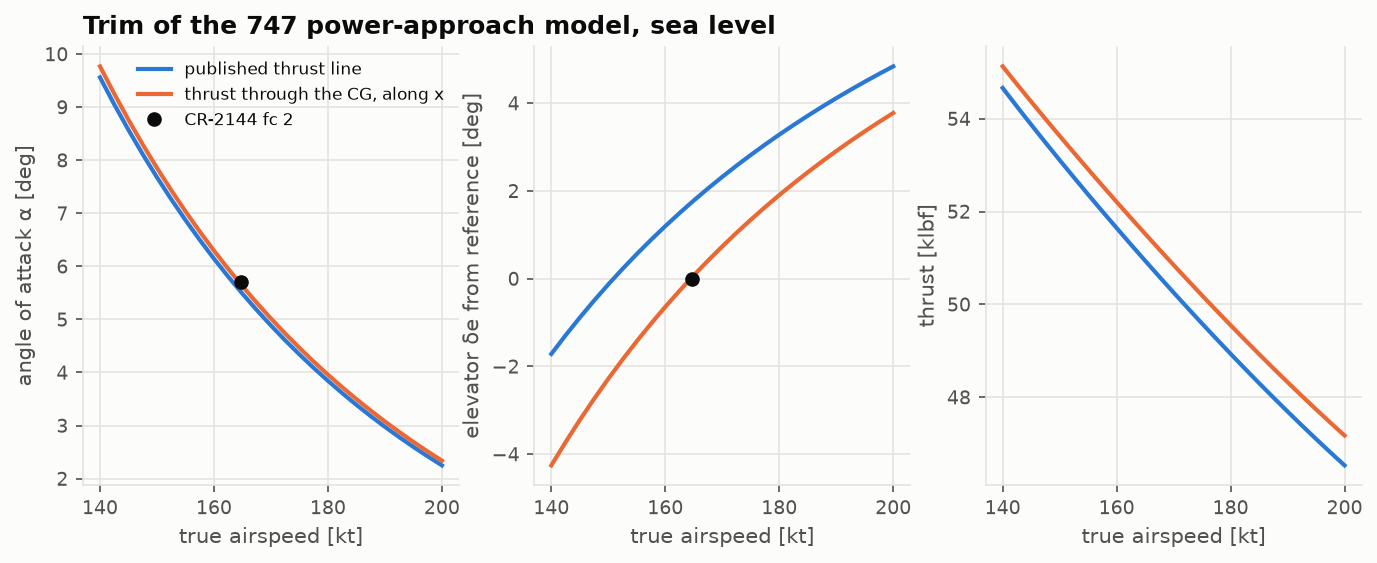
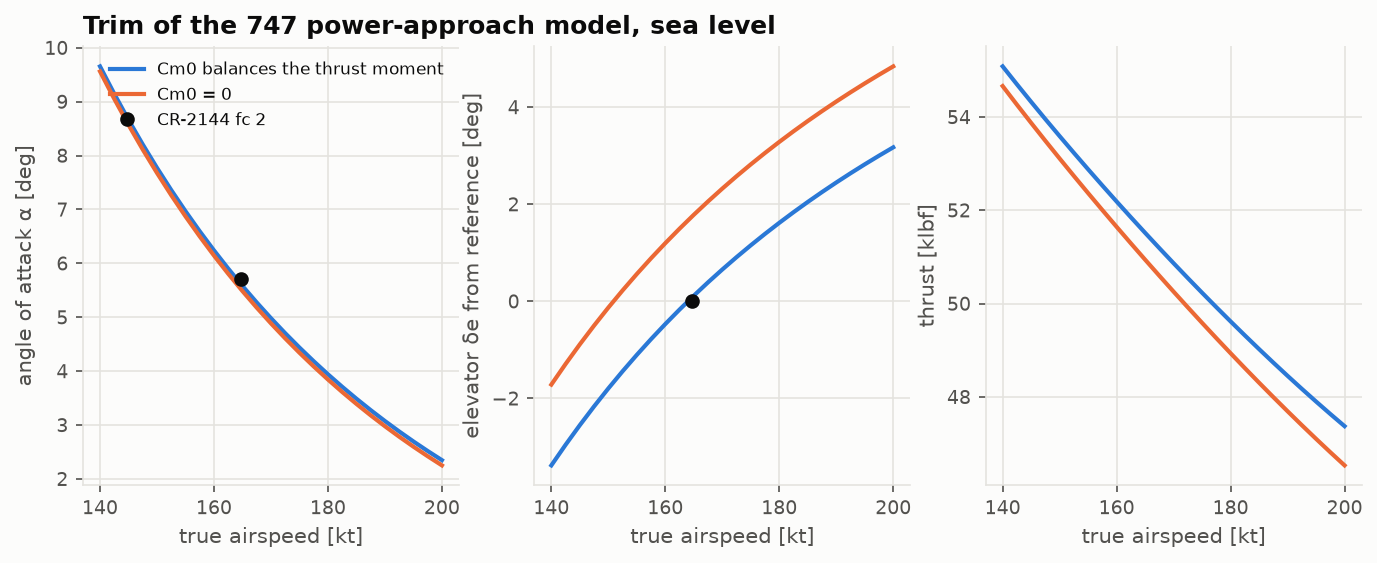
Correct Lessons 2 and 3: the 747 data is trimmed with the thrust moment
The report's M_u* and M_w are reproduced once the aerodynamic Cm at the
reference balances the published thrust line, which replaces the 'sign
slip' and 'unexplained M_u*' readings in Lesson 2 and the elevator
offset discussion in Lesson 3. Also fixes the sign in the speed-
stability explanation (lower alpha gives a nose-up Cm_a moment).

diff --git a/docs/lessons/make_figures.py b/docs/lessons/make_figures.py
@@ -15,7 +15,7 @@ from scipy.integrate import solve_ivp
 
 from flightdyn import equations_of_motion as eom
 from flightdyn import plotting as P
-from flightdyn.aircraft import MassProperties, ThrustLine
+from flightdyn.aircraft import MassProperties
 from flightdyn.rotations import euler_rates
 from flightdyn.trim_solver import trim, trim_guess
 from flightdyn.units import G0, KT, LBF
@@ -102,11 +102,11 @@ def l3_trim_curves():
     """747 power-approach model trimmed across speed: alpha, elevator, thrust."""
     ac, c = b747(2), b747_condition(2)
     kt = np.linspace(140.0, 200.0, 25)
-    no_line = ac.with_(thrust=ThrustLine(0.0, 0.0))
+    untrimmed = ac.with_(aero=ac.aero.with_(Cm0=0.0))
     fig, axes = plt.subplots(1, 3, figsize=(11, 3.8))
     for model, label, color in [
-        (ac, "published thrust line", P.SERIES[0]),
-        (no_line, "thrust through the CG, along x", P.SERIES[1]),
+        (ac, "Cm0 balances the thrust moment", P.SERIES[0]),
+        (untrimmed, "Cm0 = 0", P.SERIES[1]),
     ]:
         ts = _trim_sweep(model, kt * KT, c["h"])
         axes[0].plot(kt, [np.degrees(t.alpha) for t in ts], color=color, label=label)

diff --git a/docs/lessons/03-trim.md b/docs/lessons/03-trim.md
@@ -89,7 +89,7 @@ ac, c = b747(2), b747_condition(2)  # power approach, 165 KTAS, sea level
 t = trim(ac, c["V"], c["h"])
 alpha, de = np.degrees(t.alpha), np.degrees(t.de)
 print(f"alpha {alpha:.2f} deg, de {de:.2f} deg, T {t.thrust / LBF:.0f} lbf")
-# alpha 5.52 deg, de 1.75 deg, T 50981 lbf
+# alpha 5.62 deg, de 0.08 deg, T 51554 lbf
 t = trim(ac, c["V"], c["h"], turn_rate=np.radians(3.0))
 print(f"bank {np.degrees(t.phi):.1f} deg, n = {1 / np.cos(t.phi):.3f}")
 # bank 24.9 deg, n = 1.102
@@ -129,10 +129,11 @@ Sweeping speed shows how a stable aircraft is flown:
 
 - **Angle of attack** falls with speed, roughly as $1/V^2$, because lift must stay equal
   to weight.
-- **Elevator** moves trailing-edge-down as speed increases: from −0.1° at 150 kt to +3.3° at
-  180 kt with the published thrust line. A pilot must *push* to fly faster and *pull* to fly
-  slower. That gradient is speed stability, and its sign follows from $C_{m_{\alpha}} < 0$.
-  Lower α means a nose-down $C_{m_{\alpha}}\Delta\alpha$ moment, which the elevator must cancel.
+- **Elevator** moves trailing-edge-down as speed increases: from −1.8° at 150 kt to +1.6° at
+  180 kt. A pilot must *push* to fly faster and *pull* to fly slower. That gradient is speed
+  stability, and its sign follows from $C_{m_{\alpha}} < 0$: at higher speed α is lower, so
+  $C_{m_{\alpha}}\Delta\alpha$ is a nose-up moment (both factors negative), which a
+  trailing-edge-down elevator must cancel.
 - **Thrust** falls slightly with speed here, because induced drag dominates near the approach
   speed. The linear drag model $C_D = C_{D_0} + C_{D_\alpha}\Delta\alpha$ captures that locally,
   but it is a tangent to the drag polar, not the polar.
@@ -149,32 +150,38 @@ load factor is $n = 1/\cos\phi$: 1.10 at 25° of bank. The elevator needed per g
 **manoeuvre stability** of the aircraft. It is larger than the speed-stability gradient
 alone suggests, because the pitch rate of the turn adds a $C_{m_{q}}$ damping moment.
 
-## 5. When the reference is not a trim point
+## 5. What "trimmed" data includes
 
-Run the solver at the 747's published flight conditions and something interesting appears.
-The derivatives of CR-2144 are "for trimmed flight": $C_m$ = 0 at α0 = 8.5° (fc 1) or 5.7°
-(fc 2) with zero elevator. Yet the model trims elsewhere:
+Run the solver at the 747's published flight conditions and a modelling question appears.
+The derivatives of CR-2144 are "for trimmed flight" at α0 = 8.5° (fc 1) and 5.7° (fc 2),
+and the report also publishes the thrust line: 2.5° nose-up from the body axis, 10 ft below
+the CG. At fc 1 the engines deliver about 83 000 lbf, a nose-up moment of 830 000 ft·lbf,
+$\Delta C_m$ = +0.096. So what is the *aerodynamic* $C_m$ at the reference?
 
-| | α trim | α0 published | δe trim | thrust |
-|---|---|---|---|---|
-| fc 1, published thrust line | 7.83° | 8.5° | +4.50° | 81 000 lbf |
-| fc 1, thrust through CG along x | 8.17° | 8.5° | +0.34° | 82 800 lbf |
-| fc 2, published thrust line | 5.52° | 5.7° | +1.75° | 51 000 lbf |
-| fc 2, thrust through CG along x | 5.66° | 5.7° | +0.04° | 51 600 lbf |
+| fc 1 model | α trim (α0 = 8.5°) | δe trim | thrust |
+|---|---|---|---|
+| aerodynamic $C_{m_0}$ = 0 | 7.83° | +4.50° | 81 000 lbf |
+| $C_{m_0}$ = −0.096, balancing the thrust moment | 8.06° | +0.42° | 82 600 lbf |
+| thrust through the CG along x, $C_{m_0}$ = 0 | 8.17° | +0.34° | 82 800 lbf |
 
-The difference is the thrust line, which the report also publishes: 2.5° nose-up from the
-body axis, 10 ft below the CG. At fc 1, 81 000 lbf on a 10 ft arm is a nose-up moment of
-810 000 ft·lbf, $\Delta C_m$ = +0.093. Holding that takes $0.093/1.40$ rad = 3.8° of
-elevator. The thrust, inclined α + 2.5° to the flight path, also carries 2.6 % of the
-weight, so less wing lift is needed and α drops by 0.7°. The rest of the elevator offset
-holds the $C_{m_{\alpha}}\Delta\alpha$ moment of that lower angle of attack. The tests check
-this decomposition exactly.
+If "trimmed" meant $C_m$ = 0 for the airframe alone, the model would need 4.5° of elevator,
+3.8° of it ($0.093/1.40$ rad) to hold the thrust moment and the rest for the lower α. The report itself settles the question, through its dimensional
+derivatives. $M_u$ and $M_w$ (Lesson 2) both contain the reference $C_m$, and they are
+reproduced to 0.1–0.2 % only with $C_{m_0} = -Tl_{th}/(q S\bar c)$. With $C_{m_0}$ = 0, $M_u$ comes
+out 1.6–3 times too large. So the data was trimmed *with* the thrust moment: the tail carries
+a download that balances the engines. The model therefore sets $C_{m_0}$ that way. The thrust
+for it comes from the axial force balance at the reference (`b747_reference_cm0`), a
+deduction labelled as such, not data.
 
-The aerodynamic data and the thrust line were evidently not trimmed together. Which is right
-cannot be settled from the report. The lesson is general, though: thrust effects on trim are
-not small for aircraft with low-slung engines, and "trimmed" data needs to say what it
-includes. For the modal comparisons of Lesson 4, the linearization is therefore done both
-at the model's own trim and at the published reference.
+One offset remains: α trims 0.44° below α0 at fc 1. The tabulated $C_L$ = 1.76 equals
+W/(qS), so it does not count the lift of the thrust. Inclined at α + 2.5° to the flight path,
+the thrust carries 2.6 % of the weight, and the wing needs correspondingly less angle of
+attack. The tests check that the α offset equals this thrust lift over $qSC_{L_\alpha}$.
+
+Two lessons generalise. Thrust effects on trim are not small for aircraft with low-slung
+engines, and "trimmed" data needs to say what it includes. When a report does not say,
+its other tables may: here the derivatives of one table decided a question that the
+definitions in another left open.
 
 ## 6. Common pitfalls
 
@@ -197,7 +204,7 @@ at the model's own trim and at the published reference.
 3. Derive the body rates of a steady level turn for θ = 0. Which rate grows with bank?
 4. Using the 747 fc 1 numbers ($C_{m_{\delta_e}}$ = −1.40, q = 58.1 psf, S = 5500 ft²,
    c̄ = 27.31 ft), estimate the elevator needed to hold the moment of 81 000 lbf on a 10 ft
-   arm.
+   arm if the airframe alone were trimmed.
 5. Why does the elevator per g in a turn depend on $C_{m_{q}}$?
 
 <details>
@@ -208,7 +215,7 @@ at the model's own trim and at the published reference.
    Using product-to-sum identities, numerator = ½(sin 2α + sin 2γ) = sin(α+γ)cos(α−γ) and
    denominator = cos(α+γ)cos(α−γ). So tan θ = tan(α + γ).
 2. tan φ = 84.9 × 0.0524 / 9.807 = 0.453, so φ = 24.4°. The trim gives 24.9°. The
-   difference comes from α (6.6° in the turn) tilting body x away from the velocity.
+   difference comes from α (6.7° in the turn) tilting body x away from the velocity.
 3. With θ = 0: p = 0, q = ψ̇ sin φ, r = ψ̇ cos φ. The pitch rate grows with bank. In a
    steep turn the aircraft is mostly pitching, not yawing.
 4. $\Delta C_m$ = 81 000 × 10 / (58.1 × 5500 × 27.31) = 0.0928. δe = 0.0928/1.40 = 0.066 rad =
@@ -226,8 +233,8 @@ at the model's own trim and at the published reference.
   unknowns, six accelerations plus a sideslip or bank constraint.
 - Verify trim against independent physics: a scalar wind-axis solution, the inertial
   centripetal balance, and a simulation that stays put.
-- A published "trimmed" condition may not be an equilibrium of a model assembled from the
-  same report. Thrust-line effects alone move the 747's trim by 4.5° of elevator.
+- "Trimmed" data must say whether it includes the thrust moment. For the 747 the answer is
+  worth 4.5° of elevator, and the report's own $M_u$ and $M_w$ reveal it.
 
 ## Further reading
 

diff --git a/docs/lessons/02-aerodynamic-derivatives.md b/docs/lessons/02-aerodynamic-derivatives.md
@@ -173,21 +173,19 @@ comparing with the second is a strong check, on the transcription and on the rep
 
 ![747 dimensional derivatives: model vs CR-2144](../figures/derivatives_b747.png)
 
-**The 747.** Twenty-two of the twenty-five derivatives agree within 0.65 %, the rounding of
+**The 747.** Twenty-four of the twenty-five derivatives agree within 0.65 %, the rounding of
 three printed figures. The comparison also settles a question the report leaves open. Tables
 IX-1 and IX-2 do not say which axes their lateral derivatives use. Read as stability-axis
 derivatives (blue dots) they reproduce the dimensional table. Read as body-axis derivatives
-(orange crosses) they miss by up to 115 %. Three derivatives disagree for identifiable
-reasons:
+(orange crosses) they miss by up to 115 %. Two derivatives needed a closer look:
 
-- $M_{w}$ is 1.7 % (fc 1) and 0.7 % (fc 2) off. The table is reproduced to 0.35 % if the
-  small Mach term is *subtracted*. The derivation, and the report's own printed formula, add
-  it. This is a sign slip in the report's computation.
+- $M_{u}^{\ast}$ and $M_{w}$ contain the pitching moment coefficient at the reference. With
+  $C_{m_0}$ = 0 they come out 1.6–3 times and 1.7 % off. They are reproduced to 0.1–0.2 % if
+  the aerodynamic $C_m$ at the reference balances the moment of the published thrust line,
+  $C_{m_0} = -Tl_{th}/(qS\bar c)$ = −0.096 (fc 1) and −0.037 (fc 2). The data was trimmed
+  *with* the thrust moment, and Lesson 3 follows the consequences.
 - $Z_{q}$ is 1.1 % off at fc 1. The table values equal the formula with $U_0$ where the force
   model gives $V$: a factor $\cos\alpha_0$.
-- $M_{u}^{\ast}$ is not reproduced at all (factor 1.6–3). It contains a thrust term the report
-  does not publish. But $X_{u}^{\ast}$, which contains the same thrust term, agrees, so the
-  thrust term cannot explain it. Lesson 4 shows how little this matters for the modes.
 
 **The Navion.** Every dimensional derivative in Teper's Table X-D is larger than Table X-B
 implies, by exactly 2.22 % for moments and 2.31 % for forces. A uniform ratio points at one
@@ -249,8 +247,9 @@ applies everywhere: compute every published number you can from other published 
   $C_{n_{r}}$ give damping.
 - Stability and body axes differ by a rotation through α0. Lateral derivatives mix strongly
   under it.
-- Published data can be checked against itself. Here that settled an axis system and found
-  three slips in fifty-year-old reports.
+- Published data can be checked against itself. Here that settled an axis system, revealed
+  that the 747's data is trimmed with the thrust moment, and found a wing-area mismatch in a
+  fifty-year-old report.
 
 ## Further reading
 
